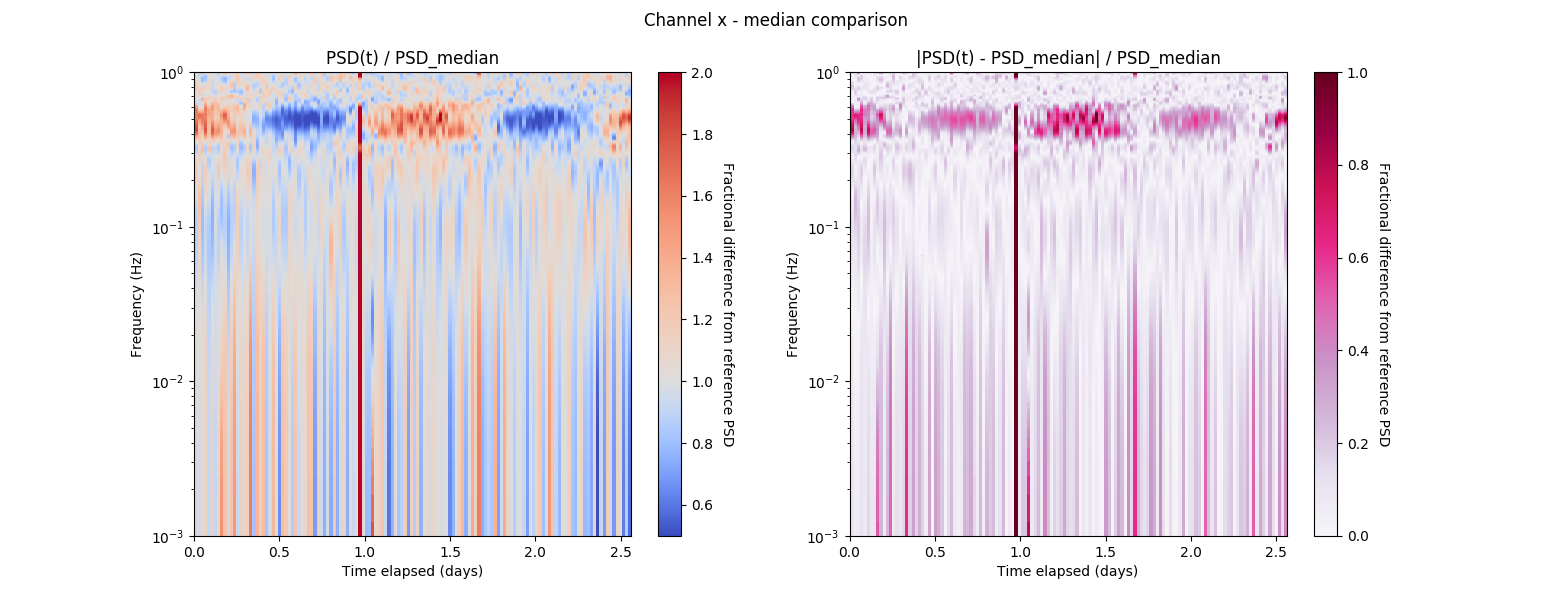
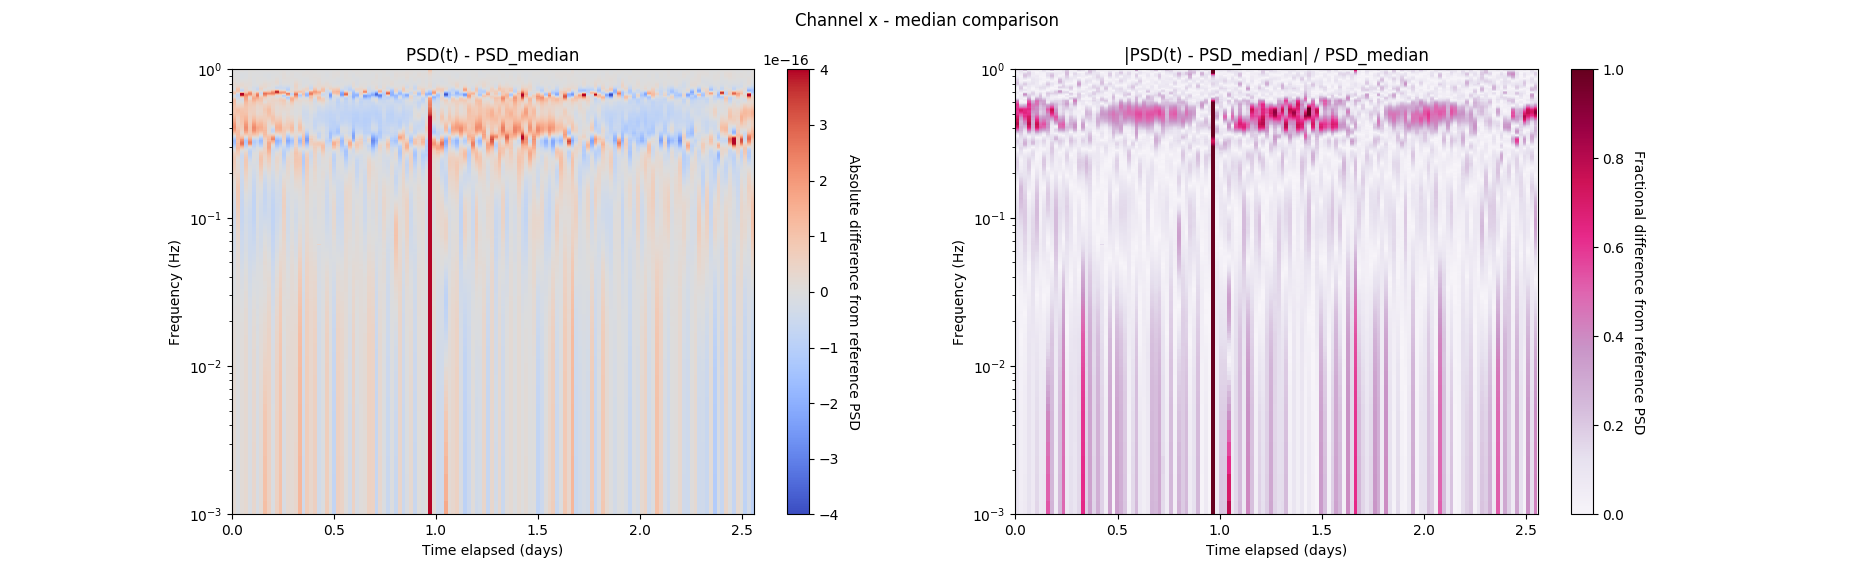
switched to absolute difference instead of relative difference

diff --git a/time_variance.py b/time_variance.py
@@ -170,7 +170,8 @@ def plot_freq_slice(fig, ax, freq, times, summaries, cred, ylim=None):
     ax.set_ylabel('PSD')
     ax.title.set_text('PSD at ' + str(freq) + ' Hz')
     
-def plot_time_slice(fig, ax, time, times, summaries, cred, logfreq=True, ylim=None):
+def plot_time_slice(fig, ax, time, times, summaries, cred, 
+        logfreq=True, ylim=None, logpsd=False):
     # Plots frequency vs PSD at a specific time
     # Parameters:
     #  fig, ax: the figure and axes of the plot
@@ -196,6 +197,8 @@ def plot_time_slice(fig, ax, time, times, summaries, cred, logfreq=True, ylim=No
         ax.set_xscale('log')
     if ylim:
         ax.set_ylim(ylim)
+    if logpsd:
+        ax.set_yscale('log')
     ax.set_ylabel('PSD')
     ax.title.set_text('PSD at ' + str(time) + ' days')
 
@@ -229,31 +232,19 @@ else:
     
 # Get differences from reference PSD
 median_psd = np.median(summaries[:,:,1:2], axis=0)
-t0_psd = summaries[0,:,1:2]
-ref_psd = median_psd
 channel_intensity = summaries[:,:,1].T
 
 print('Plotting...')
 fig, axs = plt.subplots(1, 2)
 fig.suptitle('Channel ' + channels[channel] + ' - median comparison')
-# Color map
-cmap = cm.get_cmap('coolwarm')
-cmap.set_under(color='b')
-cmap.set_over(color='r')
-shifted_cmap = shiftedColorMap(cmap, midpoint=0.2, name='shifted coolwarm')
 # Subplots
-#axs[0].title.set_text('PSD(t) - PSD_median')
-#plot_colormap(fig, axs[0], channel_intensity - median_psd,
-#    cmap=cmap,
-#    vlims=(-5e-16,5e-16),
-#    logfreq=True
-#)
-axs[0].title.set_text('PSD(t) / PSD_median')
-plot_colormap(fig, axs[0], channel_intensity / median_psd,
-    cmap=cmap,
-    vlims=(0.5,2),
+axs[0].title.set_text('PSD(t) - PSD_median')
+plot_colormap(fig, axs[0], channel_intensity - median_psd,
+    cmap=cm.get_cmap('coolwarm'),
+    vlims=(-4e-16,4e-16),
     logfreq=True,
-    neutral=1.0
+    neutral=0.0,
+    cbar_label='Absolute difference from reference PSD'
 )
 axs[1].title.set_text('|PSD(t) - PSD_median| / PSD_median')
 plot_colormap(fig, axs[1], 
@@ -270,18 +261,18 @@ cred = 0.9
 fig, axs = plt.subplots(2,2)
 fig.suptitle('Channel ' + channels[channel]
     + ' - PSDs at selected frequencies')
-plot_freq_slice(fig, axs[0,0], 0.05, delta_t_days, summaries, cred, ylim=(0, 5e-16))
-plot_freq_slice(fig, axs[0,1], 0.32, delta_t_days, summaries, cred)
-plot_freq_slice(fig, axs[1,0], 0.50, delta_t_days, summaries, cred, ylim=(0, 5e-16))
-plot_freq_slice(fig, axs[1,1], 0.68, delta_t_days, summaries, cred)
+plot_freq_slice(fig, axs[0,0], 0.01, delta_t_days, summaries, cred, ylim=(0,1e-14))
+plot_freq_slice(fig, axs[0,1], 0.10, delta_t_days, summaries, cred, ylim=(1e-15,1e-14))
+plot_freq_slice(fig, axs[1,0], 0.50, delta_t_days, summaries, cred, ylim=(3e-13,5e-13))
+plot_freq_slice(fig, axs[1,1], 0.99, delta_t_days, summaries, cred)
 #plt.show()
 
 # Time slice
 fig, axs = plt.subplots(1,1)
 fig.suptitle('Channel ' + channels[channel] + ' - PSDs at selected times')
-plot_time_slice(fig, axs, 0.65, delta_t_days, summaries, cred)
-#plot_time_slice(fig, axs, 1.00, delta_t_days, summaries, cred)
-plot_time_slice(fig, axs, 1.35, delta_t_days, summaries, cred)
-#plot_time_slice(fig, axs, 1.70, delta_t_days, summaries, cred)
+plot_time_slice(fig, axs, 0.30, delta_t_days, summaries, cred, logpsd=True)
+plot_time_slice(fig, axs, 0.62, delta_t_days, summaries, cred)
+plot_time_slice(fig, axs, 1.78, delta_t_days, summaries, cred)
+plot_time_slice(fig, axs, 1.90, delta_t_days, summaries, cred)
 axs.title.set_text('')
-#plt.show()
+plt.show()
